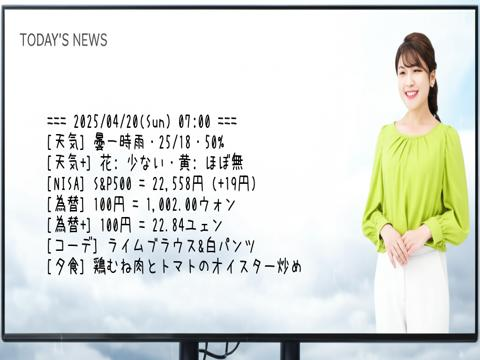
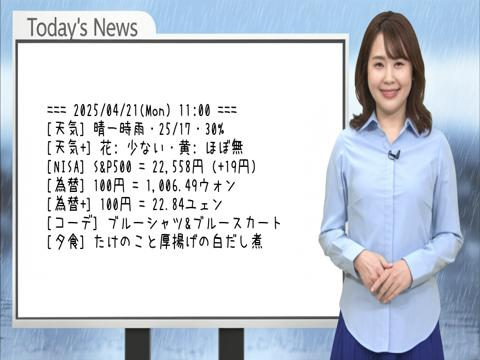
20250421#1_add
add app : trip

diff --git a/templates/js/header.js b/templates/js/header.js
@@ -8,14 +8,15 @@ const AUTH_GUEST = "guest";
 
 // アプリケーションリスト
 const APP_TODAY = "today";
-const APP_NEWS = "news";
+const APP_SITE = "site";
 const APP_DRAMA = "drama";
 const APP_RANKING = "ranking";
 const APP_LCC = "lcc";
 const APP_TV = "tv";
+const APP_NEWS = "news";
 const APP_STUDY = "study";
-const APP_SITE = "site";
 const APP_CAFE = "cafe";
+const APP_TRIP = "trip";
 const APP_USER = "user";
 
 const NUM_APP_TODAY = "0";
@@ -27,13 +28,13 @@ const NUM_APP_TV = "5";
 const NUM_APP_NEWS = "6";
 const NUM_APP_STUDY = "7";
 const NUM_APP_CAFE = "8";
-const NUM_APP_USER = "9";
+const NUM_APP_TRIP = "9";
 
 const LIST_APP_DEV_MO = [APP_NEWS, APP_DRAMA, APP_STUDY, APP_CAFE];
 const LIST_APP_GUEST_MO = [APP_DRAMA, APP_RANKING, APP_LCC, APP_TV];
 
 const LIST_APP_GUEST = [APP_TODAY, APP_SITE].concat(LIST_APP_GUEST_MO);
-const LIST_APP_NOT_GUEST = [APP_NEWS, APP_STUDY, APP_CAFE, APP_USER];
+const LIST_APP_NOT_GUEST = [APP_NEWS, APP_STUDY, APP_CAFE, APP_TRIP, APP_USER];
 const LIST_APP = LIST_APP_GUEST.concat(LIST_APP_NOT_GUEST);
 
 // 項目名

diff --git a/apps/utils/function_gemini.py b/apps/utils/function_gemini.py
@@ -137,19 +137,16 @@ def get_today_news_image(forecast: str, today_outfit: str, msg: str) -> str:
     img_div = "女性"
 
     contents = (
-        "空白で何も表示されていない画面がある。"
-        "その画面は、テレビ放送用の大きいモニター画面である。"
-        "モニターは、完成イメージの9割を占める。"
-        "番組名は、Today's Newsである。"
-        "番組名は、モニター画面の左上に表示する。"
-        f"背景は、{forecast}が分かるようなイメージにする。"
-        "但し、黒字がよく見えるように、暗い色は避ける。"
-        f"天気キャスターの{img_div}が、モニター画面の中で、右下にいる。"
+        "空白で何も表示されていない、ニュース番組の大きいモニター画面がある。"
+        "番組名は、「Today's News」、画面の左上に表示する。番組名以外の文字は、不要。"
+        f"背景は、{forecast}が分かるようにする。"
+        "背景は、暗い色や複雑なイメージは避ける。"
+        f"天気キャスターの{img_div}が、全体イメージの中で、右側にいる。"
+        f"{img_div}は、本当の人と同じ自然なイメージにする。イラストではない。"
+        f"{img_div}は、40才の日本人、身長は155cm、50kg、小柄、童顔、笑顔、可愛い人。"
         f"{img_div}の今日のファッションは、{today_outfit}。"
-        f"{img_div}は、40代の日本人、身長は155cm、小柄、ボリューム感、童顔、笑顔、可愛い人。"
-        "イメージのサイズは、480ピクセル X 360ピクセル。"
-        "そのサイズに合わせて、イメージを生成。"
-        "イメージには、日本語、中国語、記号などは、表示しない。"
+        "480ピクセル X 360ピクセルのサイズに合わせて、イメージを生成。"
+        "イメージ全体には、日本語、中国語、記号など英語以外の文字は、一切表示しない。"
     )
 
     # 英語に翻訳
@@ -375,5 +372,6 @@ if __name__ == const.MAIN_FUNCTION:
     # test_gemini()
     # test_gemini_image()
     today_weather = "晴れのち曇り"
+    today_outfit = "白いブラウス&黄色いスカート"
     msg = "[test] test"
-    get_today_news_image(today_weather, msg)
+    get_today_news_image(today_weather, today_outfit, msg)

diff --git a/apps/site.py b/apps/site.py
@@ -11,6 +11,7 @@ app_name = func.get_app_name(__file__)
 # タイトル
 app_title = "お気に入りサイト"
 app_title_cafe = "おしゃれカフェ"
+app_title_trip = "旅行"
 
 # カラムリスト
 col_list = [
@@ -21,6 +22,9 @@ col_list = [
 
 # col_list_cafe = ["店名", "特徴", "住所", "営業時間", "モーニング", "メニュー", "内観"]
 col_list_cafe = ["店名", "住所", "メニュー", "内観"]
+col_list_trip = ["区分", "内容", "アクセス", "画像"]
+
+menu_trip_div = ["両替所", "観光地", "レストラン", "その他"]
 
 # URL
 URL_KOYEB_APP = "https://" + func.get_env_val("URL_KOYEB")
@@ -44,18 +48,29 @@ def get_df_data(user_div: str, app_div: str):
         )
         column_list = df_info.columns[1:4]
         df = df_info[column_list]
-    elif app_div == const.APP_CAFE:
+        df.columns = col_list
+
+    else:
         df_info = df_all
         df_info[const.STR_NAME] = func.get_a_tag(
             df_info[const.STR_URL], df_info[const.STR_NAME]
         )
         img_path = f"{URL_KOYEB_APP}/{const.STR_IMG}/"
         file_name = df_info[const.STR_IMG]
-        df_info[const.STR_IMG] = func.get_img_tag(img_path, file_name, "_menu")
-        df_info[const.STR_URL] = func.get_img_tag(img_path, file_name, "_in")
-        df = df_info[[const.STR_NAME, const.STR_ADDR, const.STR_IMG, const.STR_URL]]
 
-    df.columns = col_list_cafe if app_div == const.APP_CAFE else col_list
+        if app_div == const.APP_CAFE:
+            df_info[const.STR_IMG] = func.get_img_tag(img_path, file_name, "_menu")
+            df_info[const.STR_URL] = func.get_img_tag(img_path, file_name, "_in")
+            df = df_info[[const.STR_NAME, const.STR_ADDR, const.STR_IMG, const.STR_URL]]
+            df.columns = col_list_cafe
+
+        elif app_div == const.APP_TRIP:
+            df_info[const.STR_IMG] = func.get_img_tag(img_path, file_name)
+            df = df_info[
+                [const.STR_NAME, const.STR_DESCRIPTION, const.STR_ACCESS, const.STR_IMG]
+            ]
+            df.columns = col_list_trip
+
     return df
 
 

diff --git a/apps/appl.py b/apps/appl.py
@@ -22,9 +22,15 @@ URL_KOYEB_APP = "https://" + func.get_env_val("URL_KOYEB")
 
 # アプリケーションリスト
 LIST_APP_DIV = [today, news, drama, ranking, lcc, tv, study]
-LIST_ALL_APP_DIV = LIST_APP_DIV + [site, site]
+LIST_ALL_APP_DIV = LIST_APP_DIV + [site, site, site]
 
-LIST_APP_NUM_OFF = [const.APP_TODAY, const.APP_STUDY, const.APP_SITE, const.APP_CAFE]
+LIST_APP_NUM_OFF = [
+    const.APP_TODAY,
+    const.APP_STUDY,
+    const.APP_SITE,
+    const.APP_CAFE,
+    const.APP_TRIP,
+]
 
 
 # クラスの定義
@@ -65,6 +71,8 @@ def exec_result(request: Request, app_name: str):
 
     if app_name == const.APP_CAFE:
         app_title = site.app_title_cafe
+    elif app_name == const.APP_TRIP:
+        app_title = site.app_title_trip
 
     num_flg = const.FLG_ON
     if func.check_in_list(app_name, LIST_APP_NUM_OFF):
@@ -73,7 +81,7 @@ def exec_result(request: Request, app_name: str):
     app_exec = AppExec(app_div, app_name)
     app_exec.start()
 
-    if app_name in [const.APP_SITE, const.APP_CAFE]:
+    if app_name in [const.APP_SITE, const.APP_CAFE, const.APP_TRIP]:
         df = site.get_df_data(user_div, app_name)
         data_list = get_data_list(df)
     else:

diff --git a/apps/utils/constants.py b/apps/utils/constants.py
@@ -220,6 +220,8 @@ STR_LINE = "line"
 STR_GEMINI = "gemini"
 STR_API = "api"
 STR_ADDR = "addr"
+STR_ACCESS = "access"
+STR_DESCRIPTION = "description"
 STR_IMG = "img"
 STR_FONT = "font"
 STR_KEYWORD = "keyword"
@@ -368,6 +370,7 @@ APP_TV = "tv"
 APP_STUDY = "study"
 APP_SITE = "site"
 APP_CAFE = "cafe"
+APP_TRIP = "trip"
 APP_USER = "user"
 LIST_APP_NAME = [
     APP_TODAY,
@@ -378,7 +381,7 @@ LIST_APP_NAME = [
     APP_TV,
     APP_STUDY,
 ]
-LIST_ALL_APP_NAME = LIST_APP_NAME + [APP_SITE, APP_CAFE]
+LIST_ALL_APP_NAME = LIST_APP_NAME + [APP_SITE, APP_CAFE, APP_TRIP]
 
 
 # パス取得
